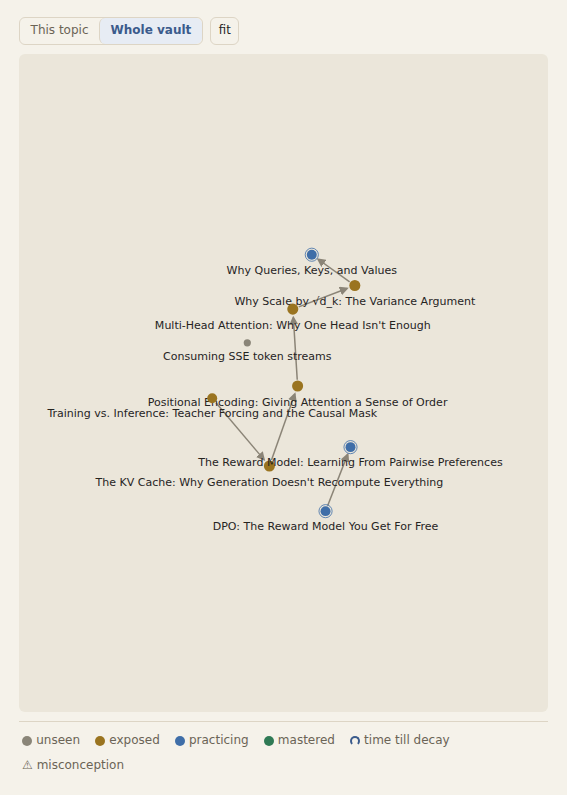
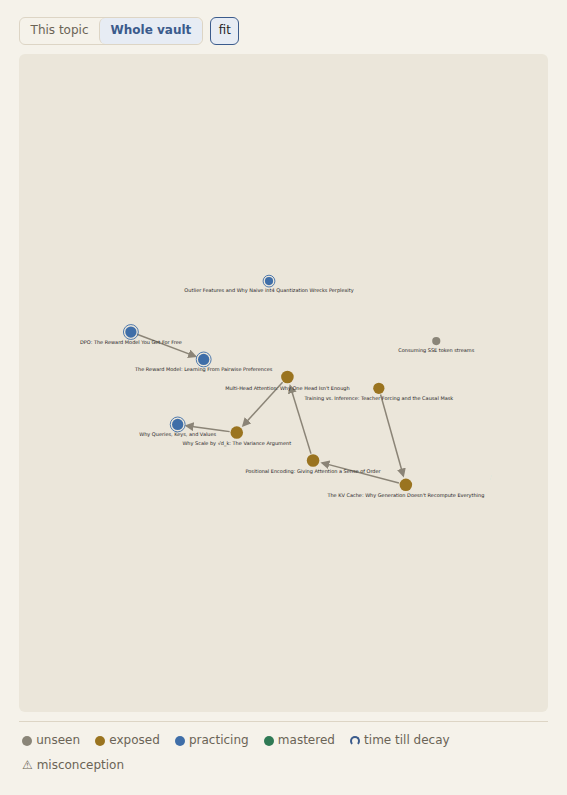
fix: fitted graph labels no longer collide, and fit no longer over-shrinks
Labels counter-scaled by raw zoom — 11 screen px at ANY zoom — while
node geometry clamps at 1, so a fit below scale 1 shrank positions but
not labels (user-reported). The label counter-scale now clamps at 1
too, and fit's label allowance moves from screen space into the content
box below scale 1. Measured after: zero overlapping label pairs, 76%
width fill on the ten-node vault.

Claude-Session: https://claude.ai/code/session_01FXyrqKWynwKNRuhJHWXSdZ

Changed region(s): [[0.0899, 0.3019, 0.8995, 0.6642]]

diff --git a/src/client/components/GraphPanel.tsx b/src/client/components/GraphPanel.tsx
@@ -389,10 +389,21 @@ export function GraphPanel({ visible = true }: { visible?: boolean }) {
     // 8-node graph ended up with over 100px of margin per side and filled 7% of its canvas.
     const usableW = Math.max(1, vw - FIT_PAD_PX * 2 - sideMaxPx * 2);
     const usableH = Math.max(1, vh - FIT_PAD_PX * 2 - rMaxPx * 2 - FIT_LABEL_PX);
-    const scale = Math.max(
-      FIT_MIN_SCALE,
-      Math.min(FIT_MAX_SCALE, usableW / bw, usableH / bh),
-    );
+    let scale = Math.min(FIT_MAX_SCALE, usableW / bw, usableH / bh);
+    if (scale < 1) {
+      // Below scale 1 the labels ride the world transform (the label render clamps its
+      // counter-scale at 1), so their allowance belongs to the CONTENT box, not the viewport.
+      // Keeping it in screen space here reserved a panel-width of pixels for labels that had
+      // already shrunk, and fit crushed small vaults into a postage stamp in a sea of parchment.
+      const worldW = bw + sideMaxPx * 2;
+      const worldH = bh + rMaxPx * 2 + FIT_LABEL_PX;
+      scale = Math.min(
+        1,
+        Math.max(1, vw - FIT_PAD_PX * 2) / worldW,
+        Math.max(1, vh - FIT_PAD_PX * 2) / worldH,
+      );
+    }
+    scale = Math.max(FIT_MIN_SCALE, scale);
     const cx = (minX + maxX) / 2;
     const cy = (minY + maxY) / 2;
     select<SVGSVGElement, unknown>(el).call(
@@ -820,8 +831,8 @@ export function GraphPanel({ visible = true }: { visible?: boolean }) {
                             ring, the audit read it as ring texture while looking straight at it.
                             The halo (paintOrder stroke) keeps it legible over any node color. */}
                         <text
-                          x={r + 2 / zoomClamp} y={-r + 2 / zoomClamp} fontSize={16 / zoomScale}
-                          fill="var(--bad)" stroke="var(--bg-panel)" strokeWidth={3 / zoomScale}
+                          x={r + 2 / zoomClamp} y={-r + 2 / zoomClamp} fontSize={16 / zoomClamp}
+                          fill="var(--bad)" stroke="var(--bg-panel)" strokeWidth={3 / zoomClamp}
                           paintOrder="stroke" fontWeight="bold"
                         >{'⚠'}{/* U+FE0E forces text presentation — as an emoji the glyph ignores fill */}</text>
                       </g>
@@ -833,7 +844,13 @@ export function GraphPanel({ visible = true }: { visible?: boolean }) {
                       // collisions (the hub "Derivatives · 45d" overlapped its neighbours at any
                       // spreading strength worth using). Shown on hover/selection, where it is
                       // actually being read.
-                      <text y={r + 14 / zoomScale} textAnchor="middle" fontSize={11 / zoomScale}>
+                      // zoomClamp, not zoomScale: dividing by raw scale kept labels at 11 SCREEN
+                      // px even when fit zoomed the world below 1 — positions shrank, labels
+                      // didn't, and a fitted small vault crammed full-size labels into shrunken
+                      // spacing (user-reported: "that looks not good"). Clamping at 1 keeps the
+                      // readable-at-any-zoom-in behavior and lets labels shrink WITH the world
+                      // below 1, preserving the collide-tuned separation.
+                      <text y={r + 14 / zoomClamp} textAnchor="middle" fontSize={11 / zoomClamp}>
                         {n.title}
                         {(isHovered || selected === n.slug) && n.daysLeft != null ? ` · ${n.daysLeft}d` : ''}
                       </text>

diff --git a/docs/learning-ui-verdict.md b/docs/learning-ui-verdict.md
@@ -464,3 +464,12 @@ Written after the sprint that followed the original verdict; each line names its
   fit control zooms but doesn't relax overlap), and the existing 9-node capture is cleaner. One
   observation for a future layout pass, not worth risk now: small-N whole-vault could use a
   label-collision nudge.
+- **User-reported: the fitted graph "looks not good" — root-caused and fixed.** Labels
+  counter-scaled by raw zoom (staying 11 screen px at any zoom) while node geometry clamps at 1,
+  so a fit below scale 1 shrank positions but not labels — full-size text crammed into shrunken
+  spacing. Two coordinated fixes: the label counter-scale now clamps at 1 too (labels shrink
+  with the world below scale 1, preserving the collide-tuned separation), and fit's label
+  allowance moves from screen space into the content box below scale 1 (the old math reserved a
+  panel-width of pixels for labels that had already shrunk, crushing small vaults into a postage
+  stamp). Measured after: 10 labels, zero overlapping pairs, 76% width fill. The README's graph
+  screenshot is now this fitted three-domain capture.
